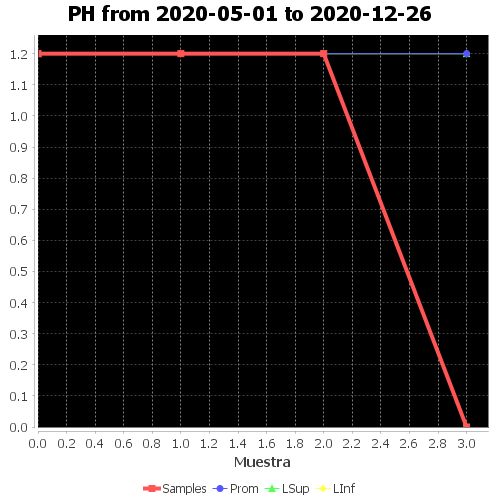
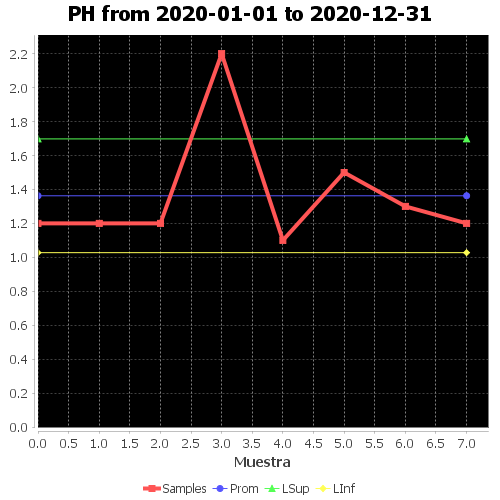
Actalización de bug que no permitia el calculo de n-simasmuestras en un rango de tiempo para la generación de estadisticas. Se corrige bug de etiquetas de algunos IDs

diff --git a/src/sistem/Stadistic.java b/src/sistem/Stadistic.java
@@ -293,12 +293,6 @@ public class Stadistic extends javax.swing.JFrame {
         System.out.println(hoy);
         
         if(!(clv.isEmpty()||fi.isEmpty()||ff.isEmpty())){
-            float [] brix = new float[5];
-            float [] ph = new float[5];
-            float [] consist = new float[5];
-            float [] visco = new float[5];
-            float [] acid = new float[5];
-            
             float [] prom = null;
             float [] ds = null;
             int id = 0;
@@ -315,12 +309,20 @@ public class Stadistic extends javax.swing.JFrame {
             reg_kpi.sPRM(prom[0],prom[1],prom[2],prom[3],prom[4]);
             reg_kpi.close();
             
-            for(int i=0; i<sample.length; i++){
-                    brix[i]=sample[i][0];
-                    ph[i]=sample[i][1];
-                    consist[i]=sample[i][2];
-                    visco[i]=sample[i][3];
-                    acid[i]=sample[i][4];
+            float [] brix = new float[sample[0].length];
+            float [] ph = new float[sample[1].length];
+            float [] consist = new float[sample[2].length];
+            float [] visco = new float[sample[3].length];
+            float [] acid = new float[sample[4].length];
+            
+            for(int i=0; i<sample[0].length; i++){
+                    if(sample[0][i]!=0&&sample[1][i]!=0&&sample[2][i]!=0&&sample[3][i]!=0&&sample[4][i]!=0){
+                        brix[i]=sample[0][i];
+                        ph[i]=sample[1][i];
+                        consist[i]=sample[2][i];
+                        visco[i]=sample[3][i];
+                        acid[i]=sample[4][i];
+                    }
             }  
 
             String gb = "";

diff --git a/src/sistem/Chart.java b/src/sistem/Chart.java
@@ -59,26 +59,30 @@ public class Chart extends JDialog {
  
     private static  XYDataset createDataset(float [] y, float prom, float desu) {
         XYSeriesCollection ds = new XYSeriesCollection();
+        int count = 0;
         //---graficar muestras
         XYSeries serie0 = new XYSeries("Samples");
         for(int j=0; j<y.length-1; j++){
-                serie0.add(j, y[j]);
+                if(y[j]!=0){
+                    serie0.add(j, y[j]);
+                    count ++;
+                }
         }
         ds.addSeries(serie0);
         //---graficar promedio
         XYSeries serie1= new XYSeries("Prom");
         serie1.add(0, prom);
-        serie1.add(y.length-2, prom);
+        serie1.add(count-1, prom);
         ds.addSeries(serie1);
         //---graficar limite sup
         XYSeries serie2= new XYSeries("LSup");
         serie2.add(0, prom+desu);
-        serie2.add(y.length-2, prom+desu);
+        serie2.add(count-1, prom+desu);
         ds.addSeries(serie2);
         //---graficar limite inf
         XYSeries serie3= new XYSeries("LInf");
         serie3.add(0, prom-desu);
-        serie3.add(y.length-2, prom-desu);
+        serie3.add(count-1, prom-desu);
         ds.addSeries(serie3);
         return ds;
     }

diff --git a/src/sistem/LogConexion.java b/src/sistem/LogConexion.java
@@ -1048,7 +1048,7 @@ public class LogConexion {
    
    //-----------------------------------------STADISTICS AND KPI GRAPHER
       public float[][] getSample(String fi, String ff, String clv){
-       float [][] dato = new float [5][100];
+       float [][] dato = new float [5][10000];
        ResultSet resultSet = null;
        try {
            sample.setString(1, clv);
@@ -1057,11 +1057,11 @@ public class LogConexion {
            resultSet = sample.executeQuery(); 
            int i = 0;
            while (resultSet.next()){
-               dato[i][0]=resultSet.getFloat(1);
-               dato[i][1]=resultSet.getFloat(2);
-               dato[i][2]=resultSet.getFloat(3);
-               dato[i][3]=resultSet.getFloat(4);
-               dato[i][4]=resultSet.getFloat(5);
+               dato[0][i]=resultSet.getFloat(1);
+               dato[1][i]=resultSet.getFloat(2);
+               dato[2][i]=resultSet.getFloat(3);
+               dato[3][i]=resultSet.getFloat(4);
+               dato[4][i]=resultSet.getFloat(5);
                i++;
            }
        } catch (SQLException ex) {

diff --git a/src/sistem/AdminSis.java b/src/sistem/AdminSis.java
@@ -30,7 +30,7 @@ public class AdminSis extends javax.swing.JFrame {
         LogConexion tyu = new LogConexion();
         tyu.open();
         int id = tyu.getAlId();
-        jLabel50.setText(""+id);
+        jLabel50.setText(""+(id+1));
     }
 
     /**
